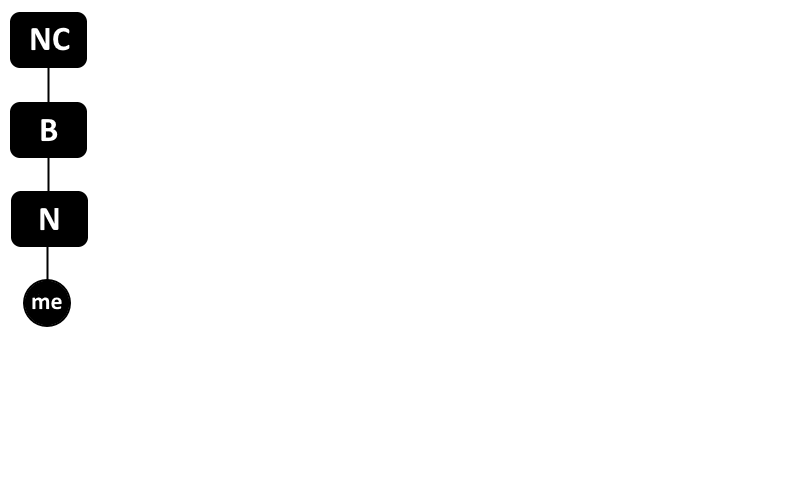
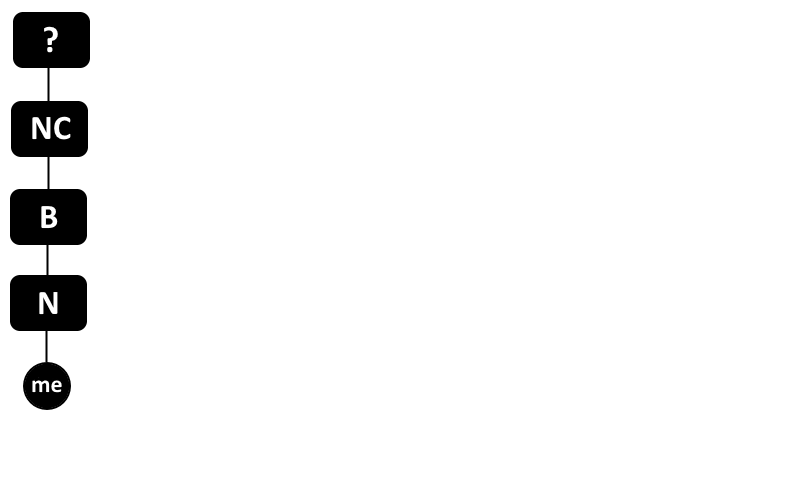
Add missing user company

diff --git a/supplementary/relationship-chart/report.html b/supplementary/relationship-chart/report.html
@@ -67,7 +67,7 @@
             <img class="chart-image" src="9.svg">
         </div>
         <div class="chart-wrapper">
-            <p>No.15 - NC:開発ベンダー(1次請)、B:開発ベンダー(2次請)(常駐先)、N:所属会社、me:自分</p>
+            <p>No.15 - ?:ユーザー、NC:開発ベンダー(1次請)、B:開発ベンダー(2次請)(常駐先)、N:所属会社、me:自分</p>
             <img class="chart-image" src="10.svg">
         </div>
         <div class="chart-wrapper">
